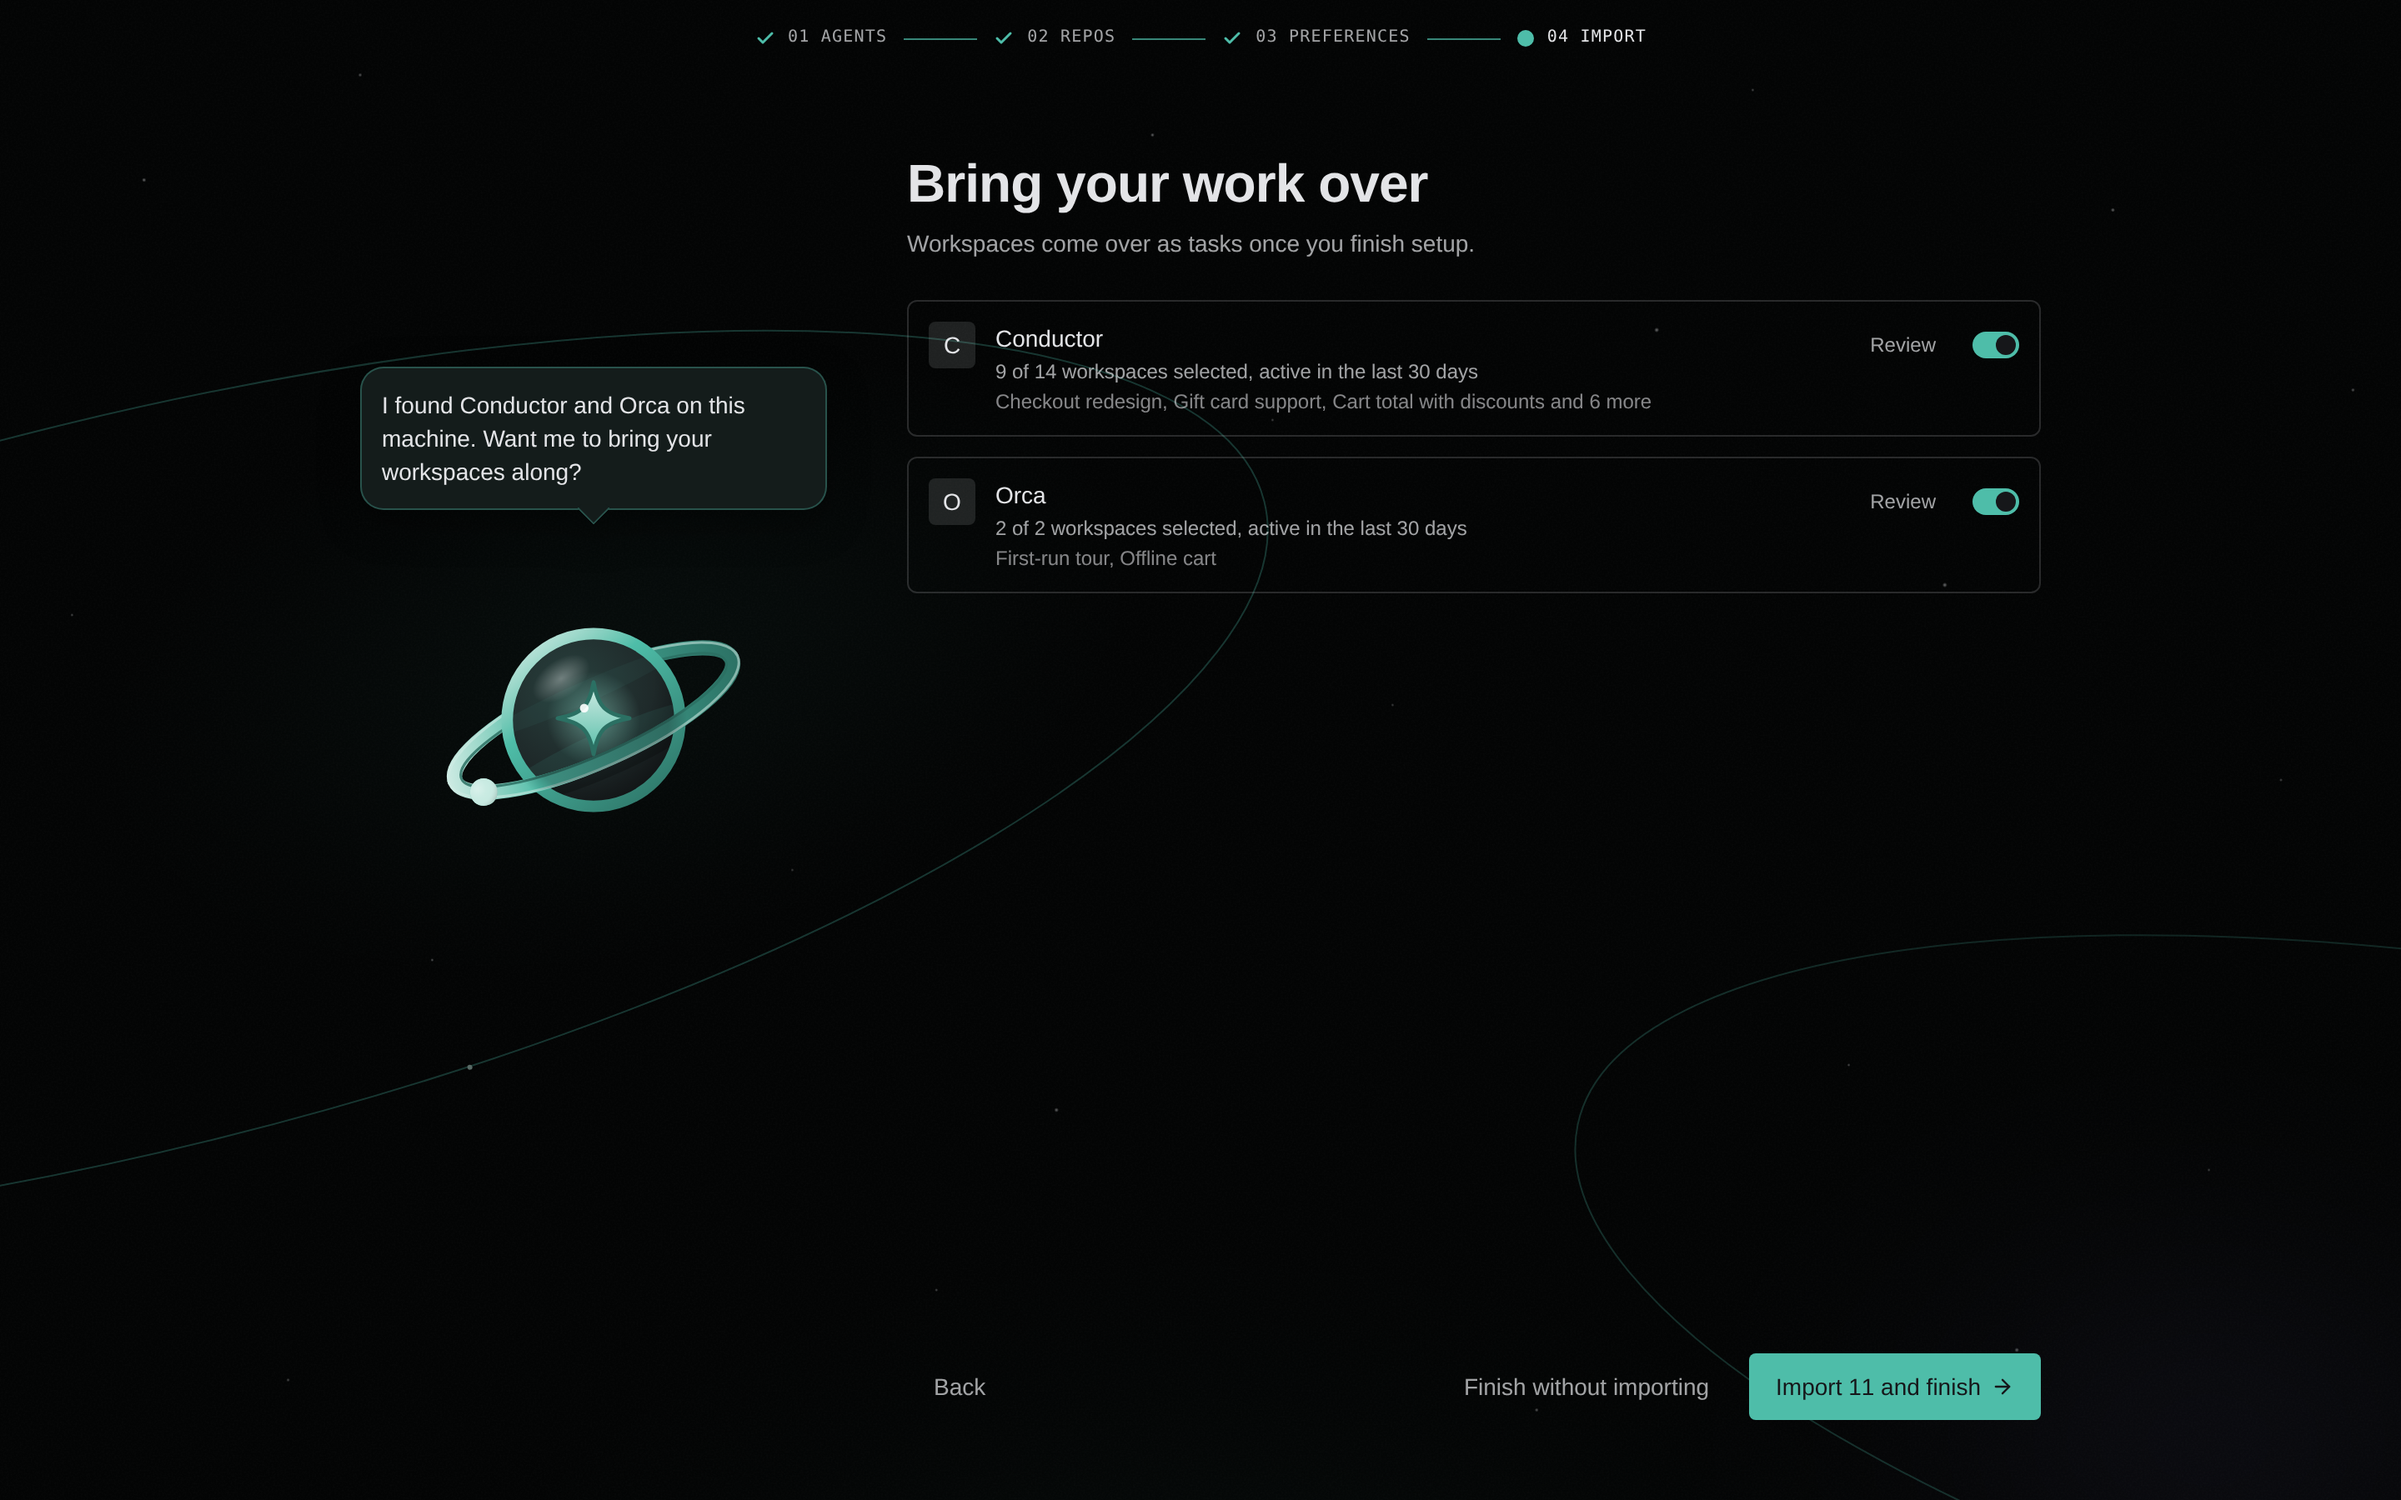
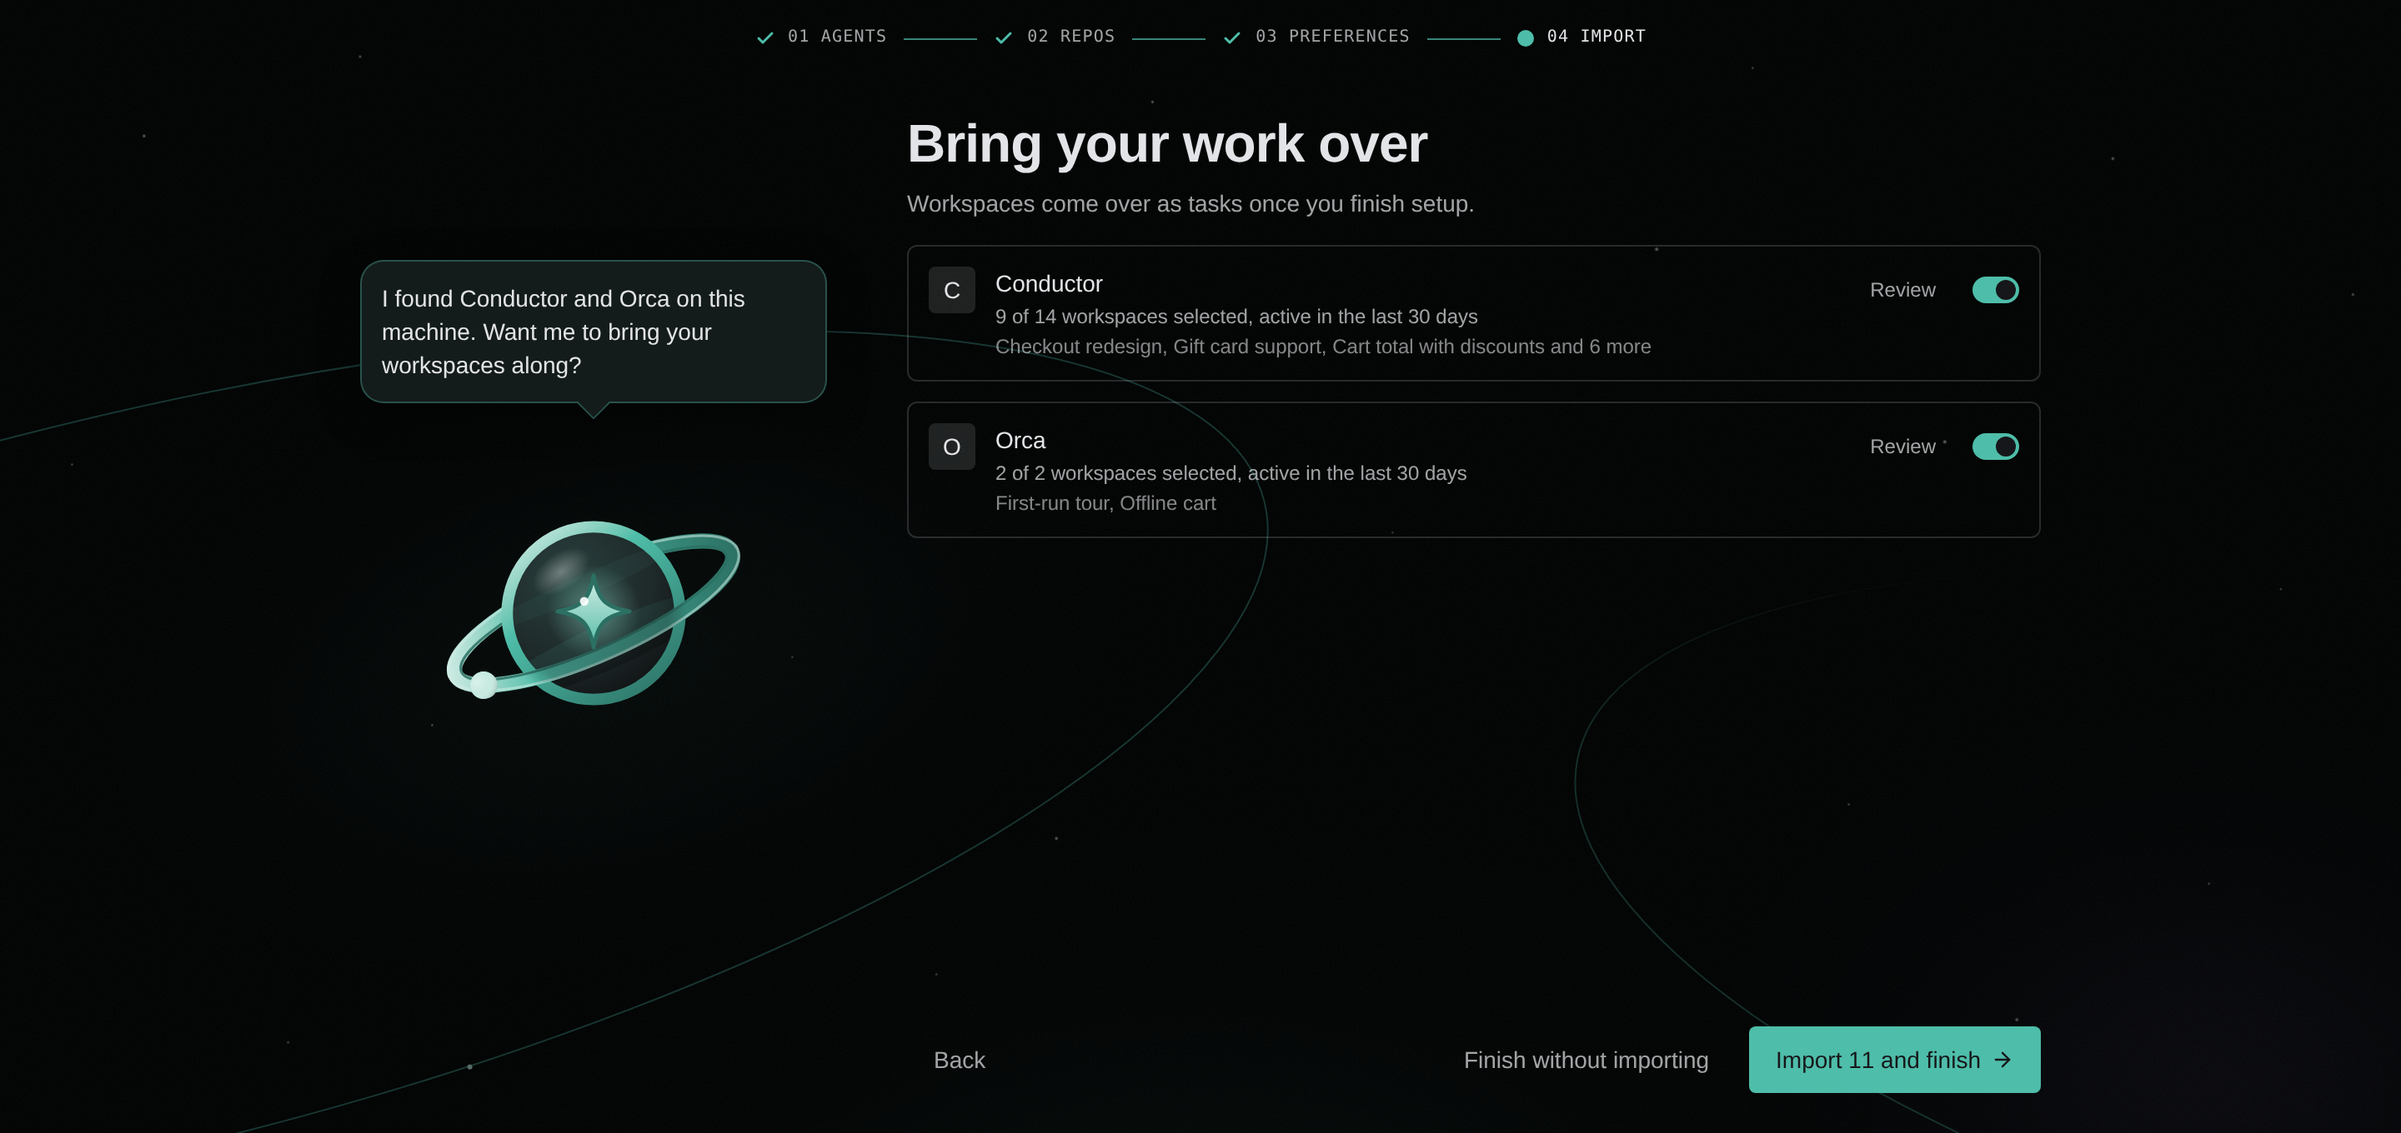
docs(kepler): closing-review fixes — shorter onboarding figures; palette Current wording
Onboarding Agents and Import figures recaptured at shorter windows (less empty
starfield); the palette's Tasks tab marks the task you are in with a check mark
('Current' is screen-reader text only).

diff --git a/kepler/kepler-interface.md b/kepler/kepler-interface.md
@@ -755,7 +755,7 @@ To switch tabs, click a tab or press **Shift+Tab**. In an empty field, you can a
   <figcaption style="text-align:center; color:#888">The Tasks tab, listing your tasks to switch to.</figcaption>
 </figure>
 
-**Tasks** lists your tasks in the same groups as the Dashboard, with the one you're in marked **Current**. Type to narrow the list, or paste a Kepler task link. You can also find a task by its pull request or issue, from its link or a number such as #51. Archived tasks follow the live ones. Press **Enter** to switch to the highlighted task, or **→** to search that task's files. Below the matches, 3 rows turn what you typed into something else:
+**Tasks** lists your tasks in the same groups as the Dashboard, with a check mark on the one you're in. Type to narrow the list, or paste a Kepler task link. You can also find a task by its pull request or issue, from its link or a number such as #51. Archived tasks follow the live ones. Press **Enter** to switch to the highlighted task, or **→** to search that task's files. Below the matches, 3 rows turn what you typed into something else:
 
 - **Search files for “{query}”** searches every task's files for it.
 - **New task: “{query}”** puts it in the **New task** composer.
